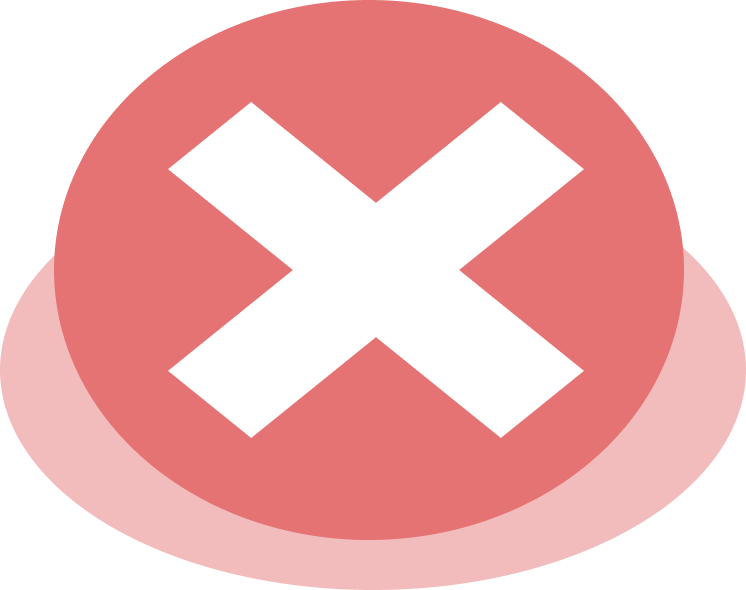
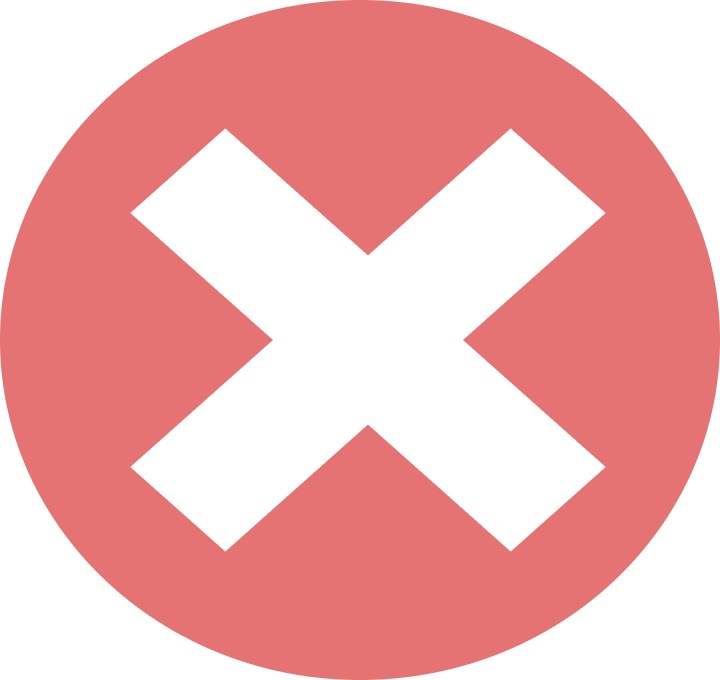
modificacion de las alertas, y el sidebar: se bajo el perfil estatico para que quede nivelado con la animacion de despliegue

diff --git a/src/components/Alertas/Alertas.css b/src/components/Alertas/Alertas.css
@@ -18,9 +18,10 @@
 .alerta-contenedor {
   background: white;
   border-radius: 1.5rem;
-  padding: 4rem 1rem 1rem 1rem;
+  padding: 7.5rem 1.5rem 2rem 1.5rem;
   text-align: center;
-  width: 320px;
+  width: 30%;
+  height: 40%;
   position: relative;
   box-shadow: 0 4px 10px rgba(0,0,0,0.2);
   display: flex;
@@ -38,21 +39,30 @@
 .alerta-icono {
   display: flex;
   justify-content: center;
+  align-items: center;
+
   margin-bottom: 1rem;
+
   position: absolute;
-  top: -35%;
-  left: 0%;
+  top: 14px;   /* antes: -35% */
+  left: 0;
+
   width: 100%;
-  z-index: 10002; /* ✅ Asegura que el ícono esté por encima */
+
+  z-index: 10002;
+
+  background: transparent;
 }
 
 .alerta-img {
-  margin: 0;
-  padding: 0;
-  max-height: 10rem;
-  max-width: 10rem;
-  width: auto;
-  height: auto;
+  width: 30%;
+  height: 30%;
+
+  max-width: 19%;
+  max-height: 19%;
+
+  object-fit: contain;
+  display: block;
 }
 
 .alerta-cerrar {
@@ -107,19 +117,7 @@
   background-color: #BFBFBF;
 }
 
-/* Colores según tipo */
-.alerta-overlay.advertencia .alerta-footer {
-  background-color: #f1e77e;
-}
-.alerta-overlay.error .alerta-footer {
-  background-color: #e57373;
-}
-.alerta-overlay.exito .alerta-footer {
-  background-color: #81c784;
-}
-.alerta-overlay.info .alerta-footer {
-  background-color: #64b5f6;
-}
+
 
 /* Responsive */
 @media (max-width: 480px) {

diff --git a/src/components/Sidebar/Sidebar.css b/src/components/Sidebar/Sidebar.css
@@ -5,12 +5,12 @@
     --sidebar-width-collapsed: 70px;
     --sidebar-width-expanded: 280px;
     --sidebar-bg: #1f2937;
-    --sidebar-bg-secondary: #111827;
+    --sidebar-bg-secondary: #111827a9;
     --sidebar-text: #ffffff;
     --sidebar-text-secondary: #9ca3af;
     --sidebar-hover: rgba(255, 255, 255, 0.1);
     --sidebar-active: rgba(99, 102, 241, 0.2);
-    --sidebar-border: rgba(255, 255, 255, 0.05);
+    --sidebar-border: rgba(251, 15, 15, 0.05);
     --sidebar-shadow: 2px 0 10px rgba(0, 0, 0, 0.1);
     --transition-speed: 0.3s;
 }
@@ -79,6 +79,7 @@
     width: 45px;
     height: 45px;
     border-radius: 50%;
+
     background: linear-gradient(135deg, #6366f1 0%, #8b5cf6 100%);
     display: flex;
     align-items: center;
@@ -88,6 +89,7 @@
     flex-shrink: 0;
     cursor: pointer;
     transition: transform 0.3s ease;
+    transform: translateY(28.3px);
 }
 
 .profile-avatar-collapsed:hover {
